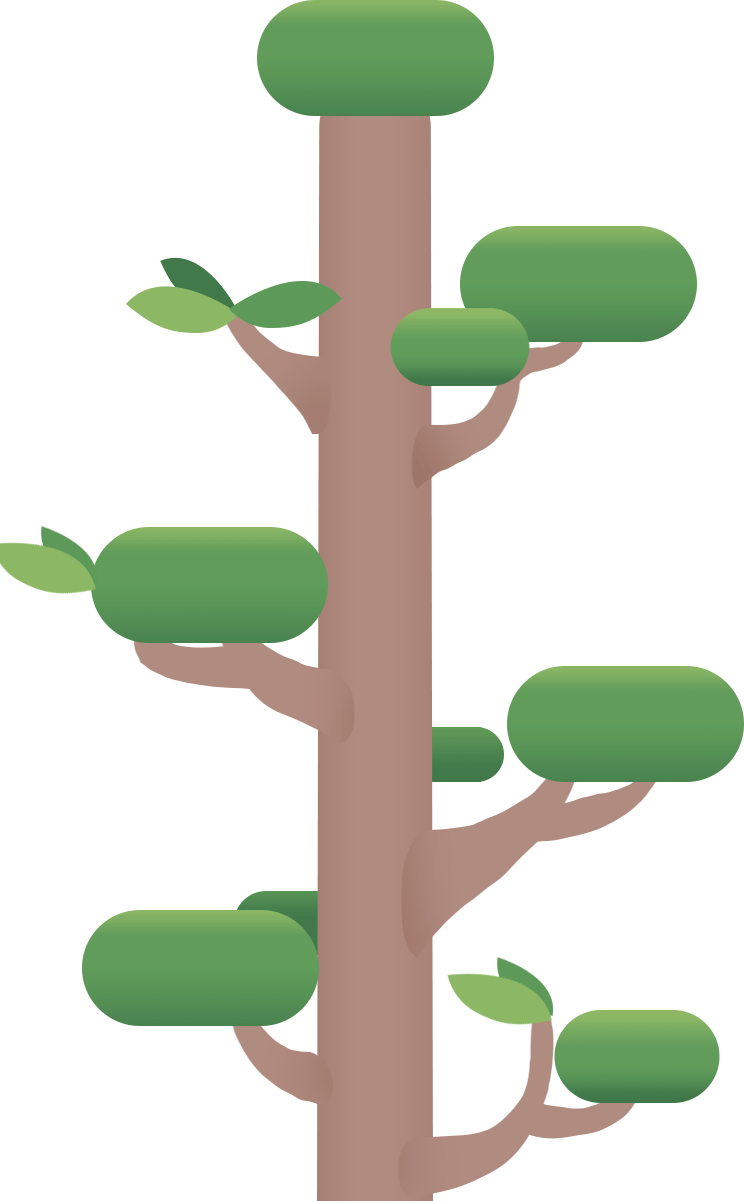
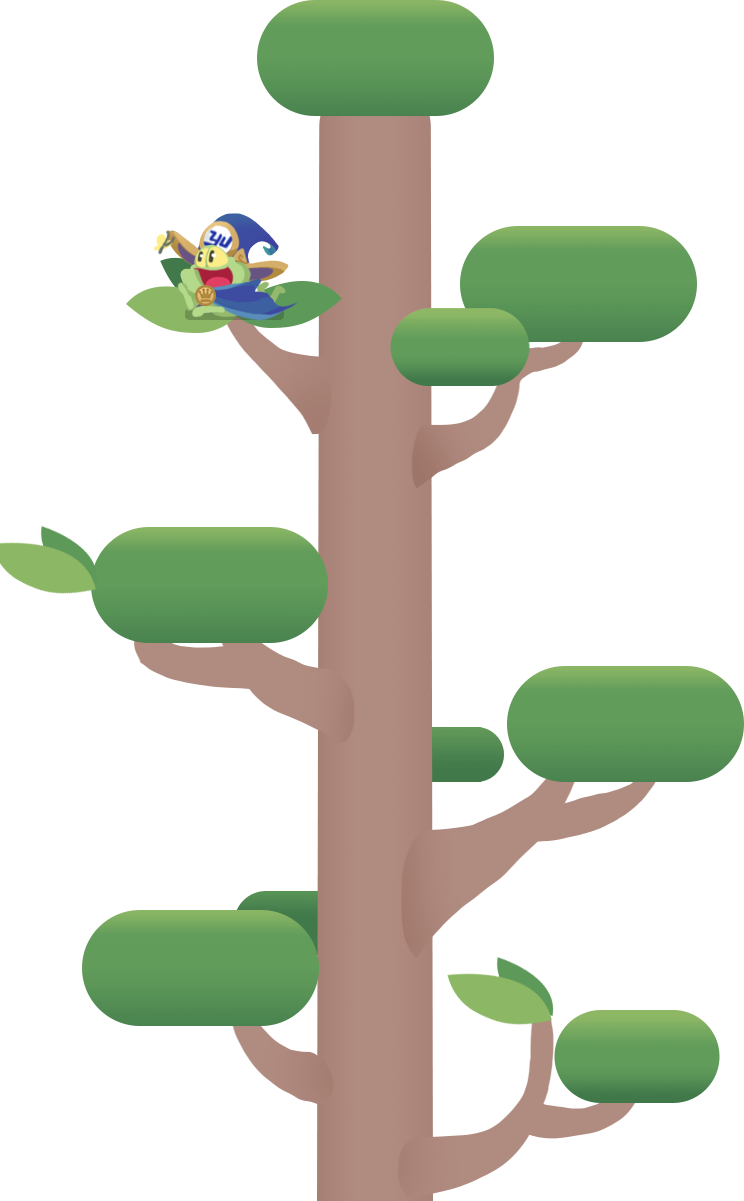
KILROY

Changed region(s): [[0.1855, 0.154, 0.4019, 0.2773]]

diff --git a/_KilroyProject/_Project/_Demo/Web/resource/css/PlantTree/share.less b/_KilroyProject/_Project/_Demo/Web/resource/css/PlantTree/share.less
@@ -28,19 +28,19 @@ body {
 
   &.button_help {
     .position(absolute, auto, 0, 200*@px, 0);
-    .bg('button_help.png', 248*@px, 102*@px, true);
+    .bg('button_help.png', 320*@px, 160*@px, true);
   }
 
   &.button_app {
     .position(absolute, auto, 0, 200*@px, 0);
-    .bg('button_app.png', 248*@px, 102*@px, true);
+    .bg('button_app.png', 384*@px, 158*@px, true);
     border: none;
   }
 }
 
 .box_tree {
   .position();
-  padding-top: 300*@px;
+  padding-top: 400*@px;
 
   &:before,
   &:after {
@@ -62,7 +62,6 @@ body {
 
   .tree {
     position: relative;
-    overflow: hidden;
     width: 100%;
     height: 100%;
 
@@ -80,20 +79,85 @@ body {
     &:after {
       .bg('tree_5_bottom.png', 750*@px, 1612*@px, true);
     }
+
+    .box_avatar {
+      .position(top);
+      width: 0;
+      height: 0;
+      margin: 0 auto;
+
+      &:after {
+        @wh: 112*@px;
+        content: '';
+        display: block;
+        .position(absolute, -@wh + 12*@px, auto, auto, 50%);
+        .transform(translate(-50%, 0));
+        .bg('avatar.png', @wh, @wh, true);
+      }
+
+      i {
+        @wh: 88*@px;
+        display: block;
+        .position(absolute, -@wh, auto, auto, 50%);
+        width: @wh;
+        height: @wh;
+        .transform(translate(-50%, 0));
+        background-size: @wh;
+        background-color: fade(@color_1, 50);
+        border-radius: 50%;
+
+        &:before {
+          content: '';
+          display: block;
+          .center();
+        }
+      }
+    }
+
+    .box_avatar:nth-child(1) {
+      .transform(translate(0*@px, 20*@px));
+
+      i:before {
+        .bg('avatar_t_1.png', 47*@px, 58*@px, true);
+      }
+    }
+
+    .box_avatar:nth-child(2) {
+      .transform(translate(160*@px, 170*@px));
+
+      i:before {
+        .bg('avatar_t_2.png', 47*@px, 58*@px, true);
+      }
+    }
+
+    .box_avatar:nth-child(3) {
+      .transform(translate(-230*@px, 420*@px));
+
+      i:before {
+        .bg('avatar_t_3.png', 47*@px, 58*@px, true);
+      }
+    }
+
+    .box_avatar:nth-child(4) {
+      .transform(translate(190*@px, 470*@px));
+
+      i:before {
+        .bg('avatar_t_4.png', 47*@px, 58*@px, true);
+      }
+    }
   }
 }
 
 .box_user {
-  .position(top, 150*@px);
+  .position(absolute, 130*@px, 0, auto, -470*@px);
   margin: 0 auto;
   .bg('avatar_share.png', 146*@px, 146*@px, true);
 
   &:before {
     content: '';
     display: block;
-    .position(absolute, auto, 0, -80*@px, 50%);
-    .transform(translate(-50%, 0));
-    margin: 0 auto;
+    .position(right, -430*@px);
+    margin: auto 0;
     .bg('share_text.png', 403*@px, 62*@px, true);
   }
 

diff --git a/_KilroyProject/_Project/_Demo/Web/application/module/PlantTree/share.ts b/_KilroyProject/_Project/_Demo/Web/application/module/PlantTree/share.ts
@@ -20,7 +20,11 @@ export default class Share implements _Stage {
     private readonly template: any = { // 模板对象
         main: `
             <div id="box_tree" class="box_tree">
-                <div class="tree"></div>
+                <div class="tree">
+                <div class="box_avatar"><i></i></div>
+                <div class="box_avatar"><i></i></div>
+                <div class="box_avatar"><i></i></div>
+                <div class="box_avatar"><i></i></div>
             </div>
             <div id="box_user" class="box_user"><i></i></div>
             <div id="button_help" class="button button_help"></div>
